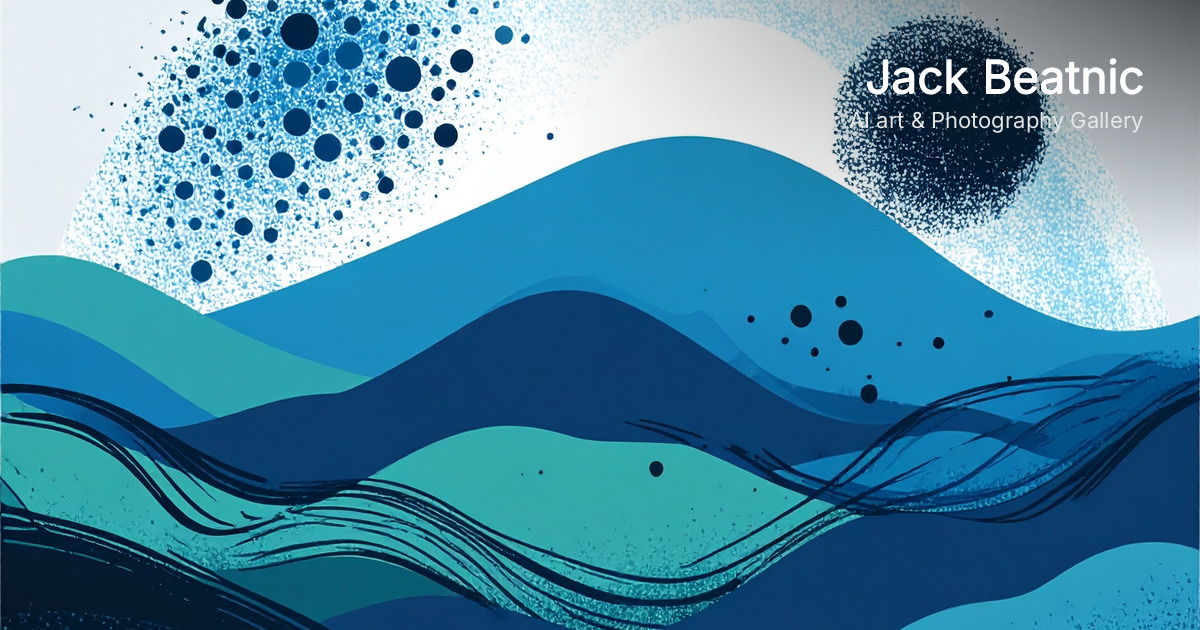
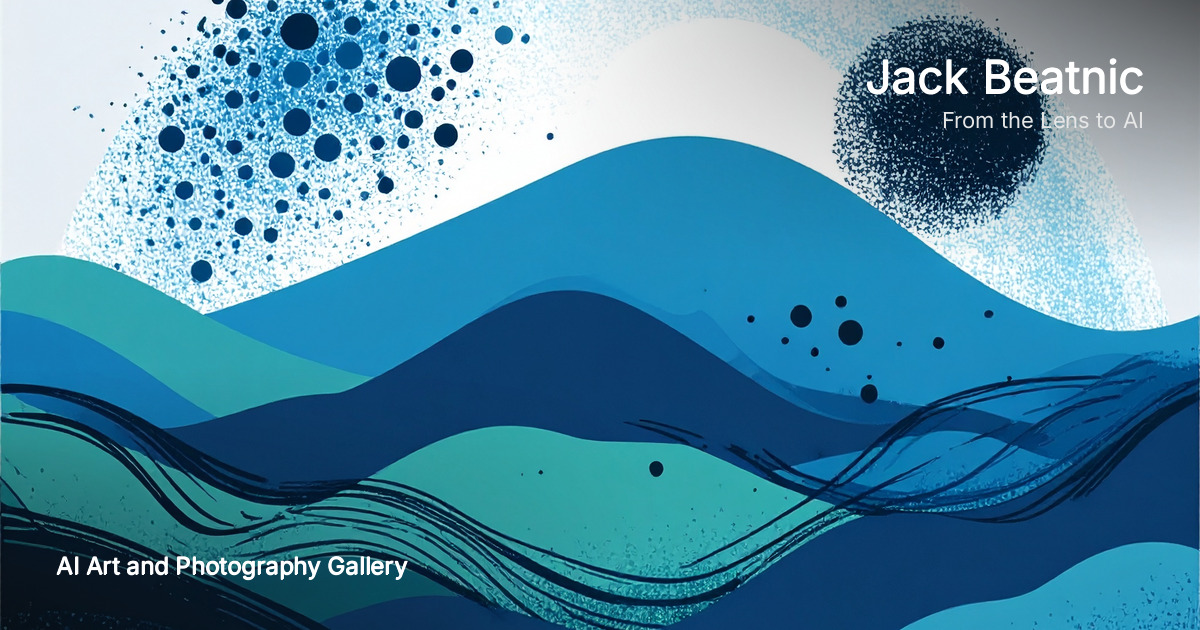
Fix OG preview layout: claim top-right, gallery label bottom-left
Top-right shows Jack Beatnic with From the Lens to AI claim; bottom-left
shows AI Art and Photography Gallery using "and" instead of ampersand.

Changed region(s): [[0.0, 0.6635, 0.4317, 1.0], [0.7092, 0.181, 0.9558, 0.2111], [0.0, 0.9651, 0.0617, 1.0]]

diff --git a/index.html b/index.html
@@ -17,7 +17,7 @@
     <meta property="og:url" content="https://jackbeatnic.github.io/">
     <meta property="og:title" content="Jack Beatnic — AI Art &amp; Photography Gallery">
     <meta property="og:description" content="From the lens to AI — photography, memory and imagination. AI-crafted digital art &amp; pure photography by Jack Beatnic. NFTs on Avalanche, Polygon, Base &amp; more.">
-    <meta property="og:image" content="https://jackbeatnic.github.io/assets/og-preview.jpg?v=202607120954">
+    <meta property="og:image" content="https://jackbeatnic.github.io/assets/og-preview.jpg?v=202607121202">
     <meta property="og:image:width" content="1200">
     <meta property="og:image:height" content="630">
     <meta property="og:image:alt" content="Jack Beatnic Gallery — AI art and photography">
@@ -26,7 +26,7 @@
     <meta name="twitter:creator" content="@JackBeatnicAI">
     <meta name="twitter:title" content="Jack Beatnic — AI Art &amp; Photography Gallery">
     <meta name="twitter:description" content="From the lens to AI. Photography meets generative art — Nature Stories, landscapes, collages &amp; more.">
-    <meta name="twitter:image" content="https://jackbeatnic.github.io/assets/og-preview.jpg?v=202607120954">
+    <meta name="twitter:image" content="https://jackbeatnic.github.io/assets/og-preview.jpg?v=202607121202">
     <meta name="twitter:image:alt" content="Jack Beatnic Gallery preview">
     <script type="application/ld+json">
     {

diff --git a/generuj_og_preview.py b/generuj_og_preview.py
@@ -30,7 +30,8 @@ FONTS_DIR = ROOT / "assets" / "fonts"
 WIDTH = 1200
 HEIGHT = 630
 SITE_BRAND_TITLE = "Jack Beatnic"
-SITE_BRAND_SUBTITLE = "AI art & Photography Gallery"
+SITE_BRAND_TAGLINE = "From the Lens to AI"
+SITE_GALLERY_LABEL = "AI Art and Photography Gallery"
 INDEX_HTML = ROOT / "index.html"
 
 NFT_PAD = 36
@@ -153,8 +154,13 @@ def format_share_price(nft: dict, info: dict) -> tuple[str, str]:
     return "View on OpenSea", "Check listing"
 
 
-def draw_site_brand_overlay(base: Image.Image, title: str, subtitle: str) -> Image.Image:
-    """Top-right brand text; bottom-left kept clear for X link overlay."""
+def draw_site_brand_overlay(
+    base: Image.Image,
+    title: str,
+    tagline: str,
+    gallery_label: str,
+) -> Image.Image:
+    """Top-right: name + claim; bottom-left: gallery label."""
     overlay = Image.new("RGBA", (WIDTH, HEIGHT), (0, 0, 0, 0))
     draw = ImageDraw.Draw(overlay)
 
@@ -167,16 +173,14 @@ def draw_site_brand_overlay(base: Image.Image, title: str, subtitle: str) -> Ima
             if alpha > 0:
                 overlay.putpixel((x, y), (10, 10, 10, alpha))
 
-    # Bottom-left: very light fade only (no text — X shows URL there)
-    for y in range(HEIGHT - 90, HEIGHT):
-        for x in range(0, 320):
-            tx = 1 - x / 320
-            ty = (y - (HEIGHT - 90)) / 90
-            alpha = int(55 * tx * ty)
+    # Bottom-left readability gradient
+    for y in range(int(HEIGHT * 0.58), HEIGHT):
+        for x in range(0, int(WIDTH * 0.55)):
+            tx = 1 - x / max(1, WIDTH * 0.55)
+            ty = (y - HEIGHT * 0.58) / max(1, HEIGHT * 0.42)
+            alpha = int(165 * tx * ty)
             if alpha > 0:
-                existing = overlay.getpixel((x, y))
-                merged = min(255, existing[3] + alpha)
-                overlay.putpixel((x, y), (10, 10, 10, merged))
+                overlay.putpixel((x, y), (10, 10, 10, alpha))
 
     canvas = Image.alpha_composite(base.convert("RGBA"), overlay)
     draw = ImageDraw.Draw(canvas)
@@ -185,23 +189,29 @@ def draw_site_brand_overlay(base: Image.Image, title: str, subtitle: str) -> Ima
     muted = (230, 230, 230, 255)
 
     pad_r = 56
+    pad_l = 56
     title_font = f["title_md"]
-    sub_font = ImageFont.truetype(str(FONTS_DIR / "Inter.ttf"), 22)
+    tagline_font = ImageFont.truetype(str(FONTS_DIR / "Inter.ttf"), 22)
+    label_font = ImageFont.truetype(str(FONTS_DIR / "Inter.ttf"), 24)
 
-    sub_bbox = sub_font.getbbox(subtitle)
+    tagline_bbox = tagline_font.getbbox(tagline)
     title_bbox = title_font.getbbox(title)
-    sub_w = sub_bbox[2] - sub_bbox[0]
+    tagline_w = tagline_bbox[2] - tagline_bbox[0]
     title_w = title_bbox[2] - title_bbox[0]
-    block_w = max(title_w, sub_w)
 
     text_right = WIDTH - pad_r
     title_x = text_right - title_w
-    sub_x = text_right - sub_w
+    tagline_x = text_right - tagline_w
     title_y = 48
-    sub_y = title_y + 58
+    tagline_y = title_y + 58
 
     draw_bold(draw, (title_x, title_y), title, title_font, white)
-    draw.text((sub_x, sub_y), subtitle, font=sub_font, fill=muted)
+    draw.text((tagline_x, tagline_y), tagline, font=tagline_font, fill=muted)
+
+    label_bbox = label_font.getbbox(gallery_label)
+    label_h = label_bbox[3] - label_bbox[1]
+    label_y = HEIGHT - 56 - label_h
+    draw_bold(draw, (pad_l, label_y), gallery_label, label_font, white)
     return canvas
 
 
@@ -211,15 +221,17 @@ def generate_site_og(data: dict, output: Path = SITE_OG_PATH) -> Path:
         raise SystemExit("gallery.json: brak NFT do tła strony")
 
     info = data["collection_info"]
-    title = info.get("hero_title") or info.get("artist") or SITE_BRAND_TITLE
-    subtitle = SITE_BRAND_SUBTITLE
+    title = html.unescape(info.get("hero_title") or info.get("artist") or SITE_BRAND_TITLE)
+    tagline = html.unescape(info.get("hero_tagline") or SITE_BRAND_TAGLINE)
+    gallery_label = SITE_GALLERY_LABEL
 
     print(f"[site] Tło: {nfts[0].get('name', '—')}")
     bg = fetch_image(nfts[0]["image_url"])
     canvas = draw_site_brand_overlay(
         cover_crop(bg, WIDTH, HEIGHT, focus_y=0.4),
         title,
-        subtitle,
+        tagline,
+        gallery_label,
     )
 
     output.parent.mkdir(parents=True, exist_ok=True)
